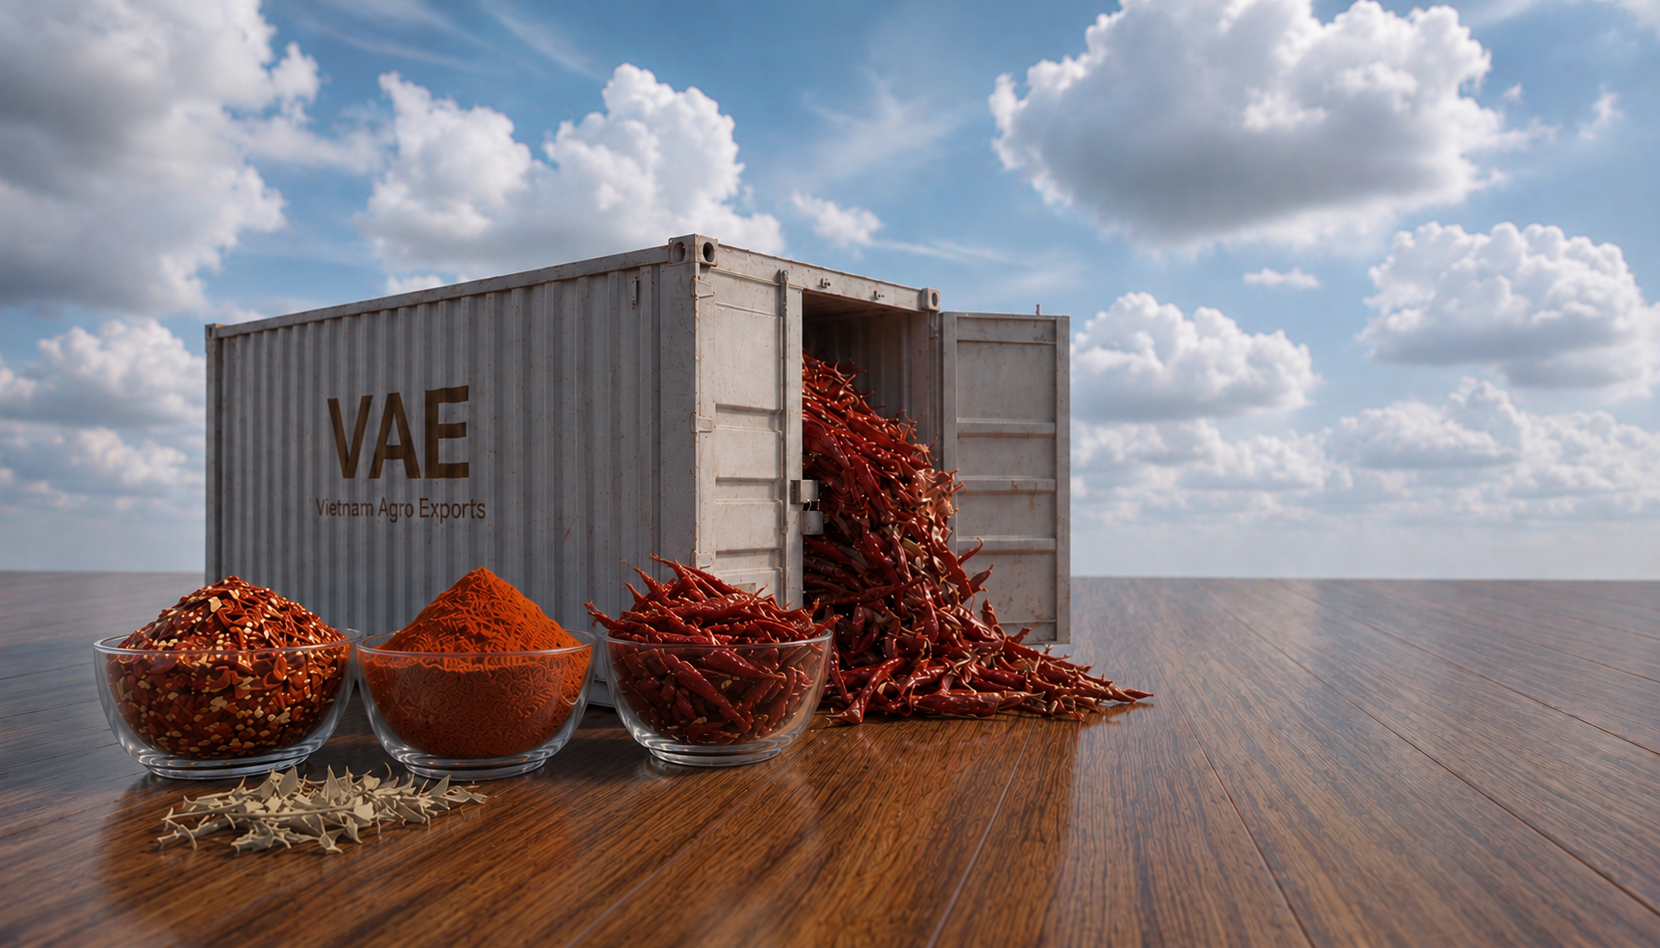
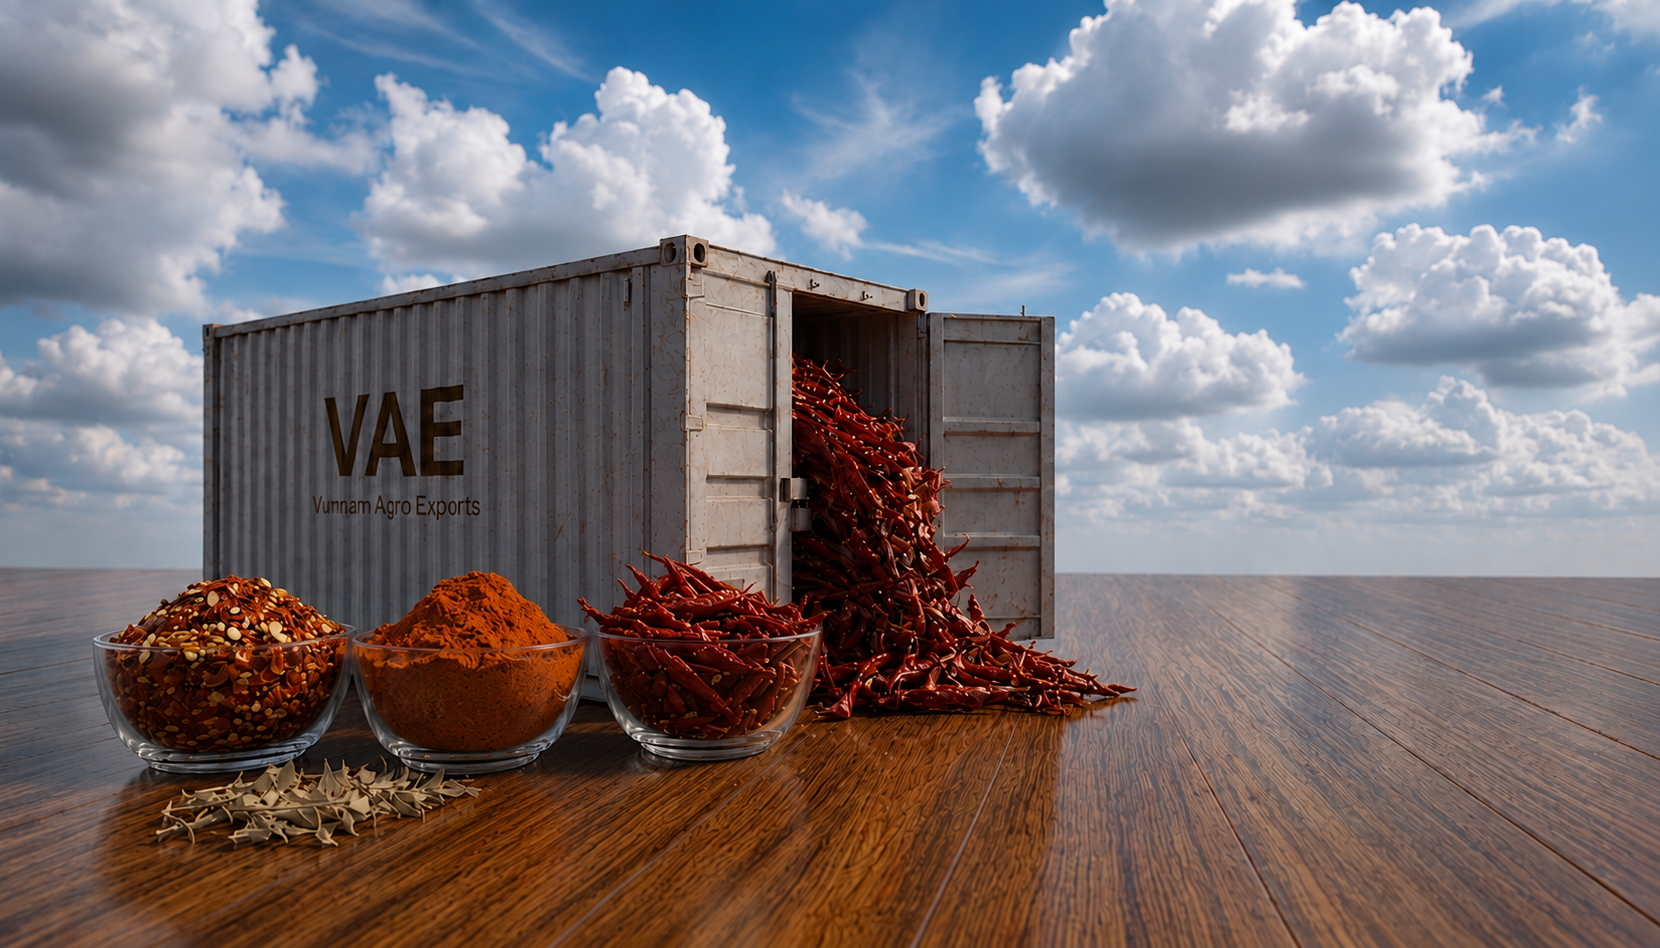
Wire contact form to Formspree, update hero background image

diff --git a/src/App.jsx b/src/App.jsx
@@ -208,15 +208,31 @@ function About() {
 function Contact() {
   const [form, setForm] = useState({ name: '', email: '', company: '', message: '' })
   const [sent, setSent] = useState(false)
+  const [error, setError] = useState(false)
+  const [submitting, setSubmitting] = useState(false)
 
   const handleChange = (e) => setForm({ ...form, [e.target.name]: e.target.value })
 
-  const handleSubmit = (e) => {
+  const handleSubmit = async (e) => {
     e.preventDefault()
-    const subject = encodeURIComponent(`Inquiry from ${form.name}${form.company ? ` — ${form.company}` : ''}`)
-    const body = encodeURIComponent(`Name: ${form.name}\nEmail: ${form.email}\nCompany: ${form.company}\n\n${form.message}`)
-    window.location.href = `mailto:[email redacted]?subject=${subject}&body=${body}`
-    setSent(true)
+    setSubmitting(true)
+    setError(false)
+    try {
+      const res = await fetch('https://formspree.io/f/mjgzpbpl', {
+        method: 'POST',
+        headers: { 'Content-Type': 'application/json', Accept: 'application/json' },
+        body: JSON.stringify(form),
+      })
+      if (res.ok) {
+        setSent(true)
+      } else {
+        setError(true)
+      }
+    } catch {
+      setError(true)
+    } finally {
+      setSubmitting(false)
+    }
   }
 
   return (
@@ -232,7 +248,7 @@ function Contact() {
           <div className="contact__details">
             <div className="contact__detail">
               <span>📧</span>
-              <a href="mailto:[email redacted]">[email redacted]</a>
+              <a href="mailto:[email redacted]">[email redacted]</a>
             </div>
             <div className="contact__detail">
               <span>🌍</span>
@@ -244,7 +260,7 @@ function Contact() {
           {sent ? (
             <div className="contact__thanks">
               <span>✅</span>
-              <p>Your email client has been opened. We'll respond within 24 hours.</p>
+              <p>Thank you! Your inquiry has been sent. We'll respond within 24 hours.</p>
             </div>
           ) : (
             <>
@@ -266,7 +282,10 @@ function Contact() {
                 <label htmlFor="message">Message *</label>
                 <textarea id="message" name="message" required rows={5} value={form.message} onChange={handleChange} placeholder="Tell us about your requirements — product, quantity, destination..." />
               </div>
-              <button type="submit" className="btn btn--primary btn--full">Send Inquiry →</button>
+              {error && <p className="contact__error">Something went wrong. Please try again or email us directly.</p>}
+              <button type="submit" className="btn btn--primary btn--full" disabled={submitting}>
+                {submitting ? 'Sending…' : 'Send Inquiry →'}
+              </button>
             </>
           )}
         </form>

diff --git a/src/App.css b/src/App.css
@@ -591,6 +591,15 @@
   font-size: 16px;
   color: var(--text-mid);
 }
+.contact__error {
+  font-size: 13px;
+  color: var(--red);
+  margin-bottom: 8px;
+}
+.btn:disabled {
+  opacity: 0.65;
+  cursor: not-allowed;
+}
 
 @media (max-width: 900px) {
   .contact__inner {